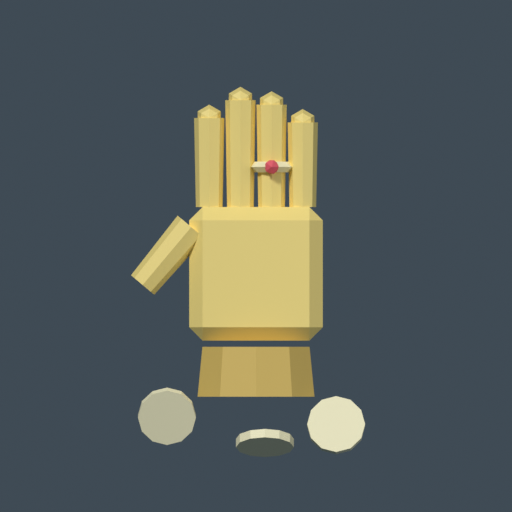
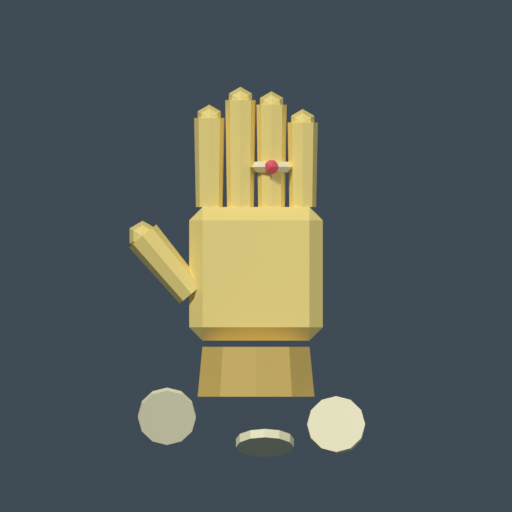
Turn the Midas Touch thumb outward
Miguel noticed the thumb was reversed: it leaned in across the palm toward the
fingers. It now angles up and away from the palm like a raised open hand, with
a rounded tip.

Changed region(s): [[0.25, 0.4062, 0.4062, 0.5938]]

diff --git a/ArtSource/Terra/ItemMidasTouch/model.py b/ArtSource/Terra/ItemMidasTouch/model.py
@@ -15,7 +15,9 @@ k.box((0.3, 0.3, 0.12), loc=(0, -0.04, 0), tile=GOLD, bevel=0.03)
 for x, length in ((-0.105, 0.2), (-0.035, 0.24), (0.035, 0.23), (0.105, 0.19)):
     k.cylinder(0.034, 0.03, length, loc=(x, 0.11 + length / 2, 0), rot=(90, 0, 0), tile=GOLD, segments=8)
     k.sphere(0.03, loc=(x, 0.11 + length, 0), tile=GOLD, u=6, v=4)
-k.cylinder(0.04, 0.034, 0.17, loc=(-0.2, 0.0, 0.02), rot=(90, 0, -40), tile=GOLD, segments=8)
+# The thumb leans up and away from the palm, not across it.
+k.cylinder(0.04, 0.034, 0.17, loc=(-0.2, -0.02, 0.02), rot=(90, 0, 40), tile=GOLD, segments=8)
+k.sphere(0.034, loc=(-0.2 - 0.085 * math.sin(math.radians(40)), -0.02 + 0.085 * math.cos(math.radians(40)), 0.02), tile=GOLD, u=6, v=4)
 k.torus(0.04, 0.012, loc=(0.035, 0.2, 0), rot=(90, 0, 0), tile=SHINE, ring=10, tube=4)
 k.ico(0.018, loc=(0.035, 0.2, 0.045), tile=RUBY, subdivisions=1)
 k.cylinder(0.11, 0.12, 0.14, loc=(0, -0.26, 0), rot=(90, 0, 0), scale=(1.15, 1, 0.8), tile=GOLD_DARK, segments=10)
